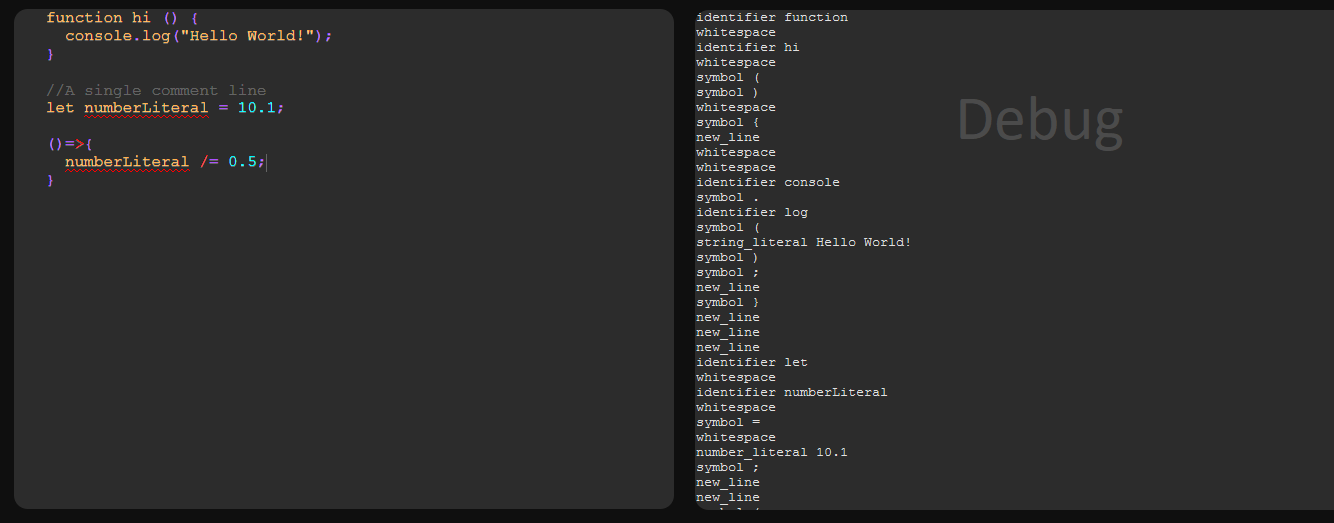
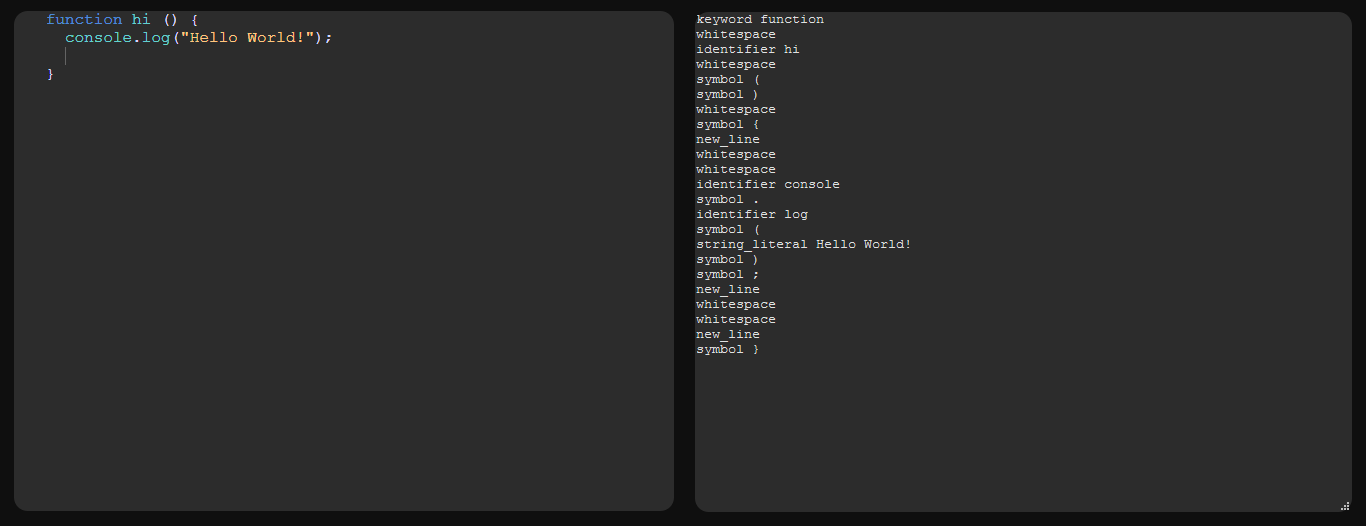
Changed a bunch of styles so it looks nice Remove margin from display Tabs to spaces feature Began implementing language specific highlighting Removed spellcheck underlines from hidden editor Modified javascript language definition

diff --git a/hylite.js b/hylite.js
@@ -12,14 +12,9 @@ class HyliteEditor {
         this.language = undefined;
         this.lastNewLine = false;
         this.onchangehook = (evt)=>this.onContentChanged(evt);
-        document.addEventListener("keypress", (e)=>{
-            if (e.key == "Tab") {
-                e.preventDefault();
-            }
-        });
     }
     highlight (caretAbsolutePosition) {
-        let tokens = Lexer.lex(this.editorElement.value);
+        let tokens = Lexer.lex(this.language, this.editorElement.value);
         if (tokens) {
             this.visualElement.innerHTML = "";
             for (let i=0; i<tokens.length; i++) {
@@ -50,43 +45,6 @@ class HyliteEditor {
                     break;
                 }
             }
-            // let sel = window.getSelection();
-            // let range = document.createRange();
-            // let newFocus;
-            
-            // let offset = 0, childLength = 0;
-
-            // for (let i=0; i<this.editorElement.children.length; i++) {
-            //     let child = this.editorElement.children[i];
-            //     childLength = 0;
-            //     if (child.className === "new_line") {
-            //         childLength += 1; //Represents a single \n char
-            //     } else if (child.className === "string_literal") {
-            //         childLength += child.textContent.length + 2;
-            //     } else {
-            //         childLength += child.textContent.length;
-            //     }
-            //     offset += childLength;
-            //     console.log("Offset now", offset, "vs", caretAbsolutePosition);
-            //     if (offset >= caretAbsolutePosition) {
-            //         newFocus = child;
-            //         offset = offset - caretAbsolutePosition;
-            //         // if (offset >= newFocus.textContent.length) {
-            //         //     offset = 1;
-            //         //     newFocus = this.element;
-            //         // }
-            //         break;
-            //     }
-            // }
-            // console.log(offset, newFocus);
-
-            // range.selectNode(newFocus);
-            // range.setStart(newFocus, offset+1);
-
-            // range.collapse(true);
-            // sel.removeAllRanges();
-            // sel.addRange(range);
-
             if (this.debugelement) {
                 let txt = "";
                 for (let i=0; i<tokens.length; i++) {
@@ -168,6 +126,17 @@ class HyliteEditor {
 
             this.editorElement = ta;
             this.editorElement.addEventListener("keyup", this.onchangehook);
+
+            this.editorElement.addEventListener("keydown", function (e) {
+                if (e.key == "Tab") {
+                    e.preventDefault();
+                    let start = this.selectionStart;
+                    this.value = this.value.substring(0, start) + "  " + this.value.substring(start);
+                    this.selectionStart = start + 2;
+                    this.selectionEnd = this.selectionStart;
+                    return false;
+                }
+            });
 
             return true;
         }

diff --git a/Lexer.js b/Lexer.js
@@ -17,7 +17,7 @@ class Lexer {
     static scan_string_literal(delim, start, toScan) {
         let end = toScan.indexOf(delim, start);
         if (end === -1) {
-            console.error("Scanned string without finding next", delim);
+            //console.error("Scanned string without finding next", delim);
             return false;
         }
         if (end > toScan.length) {
@@ -62,7 +62,7 @@ class Lexer {
         }
         return result;
     }
-    static lex (data) {
+    static lex (lang, data) {
         data = data.replace(/ /g," ");
         let tokens = [];
         let currentToken;
@@ -149,14 +149,21 @@ class Lexer {
             } else if (data[i].match(/[_a-zA-Z]/)) {
                 let identifier = Lexer.scan_identifier(i, data);
 
-                //For keywords loop
-
-                currentToken = {
-                    type:"identifier",
-                    data:identifier,
-                    lineNumber:currentLine,
-                    charInLine:i-thisLineCharOffset
-                };
+                if (lang.keywords.includes(identifier)) {
+                    currentToken = {
+                        type:"keyword",
+                        data:identifier,
+                        lineNumber:currentLine,
+                        charInLine:i-thisLineCharOffset
+                    };
+                } else {
+                    currentToken = {
+                        type:"identifier",
+                        data:identifier,
+                        lineNumber:currentLine,
+                        charInLine:i-thisLineCharOffset
+                    };
+                }
 
                 i+= identifier.length-1;
                 tokens.push(currentToken);

diff --git a/example.html b/example.html
@@ -25,6 +25,7 @@
             font-family:'Courier New', Courier, monospace;
             padding-left:2em;
             white-space:pre;
+            margin:0px;
         }
         #hiddenEditor {
             background:transparent;
@@ -43,16 +44,16 @@
             border-radius:1vw;
         }
         .symbol {
-            color:rgb(170, 80, 255);
+            color:rgb(205, 199, 251);
         }
         .operator {
-            color:rgb(255, 0, 0);
+            color:rgb(184, 184, 184);
         }
         .keyword {
-            color:rgb(255, 187, 0);
+            color:rgb(8, 97, 206);
         }
         .identifier {
-            color:#ffb350;
+            color:#27c1be;
         }
         .number_literal {
             color:rgb(0, 247, 255);
@@ -70,7 +71,7 @@
 	</head>
 	<body>
         <div id="jsEditor" contenteditable="true" spellcheck="false">function hi () {}</div>
-        <textarea id="hiddenEditor">function hi () {}</textarea>
+        <textarea id="hiddenEditor" spellcheck="false">function hi () {}</textarea>
         <textarea id="jsResult"></textarea>
         <script src="example.js" type="module"></script>
 	</body>
